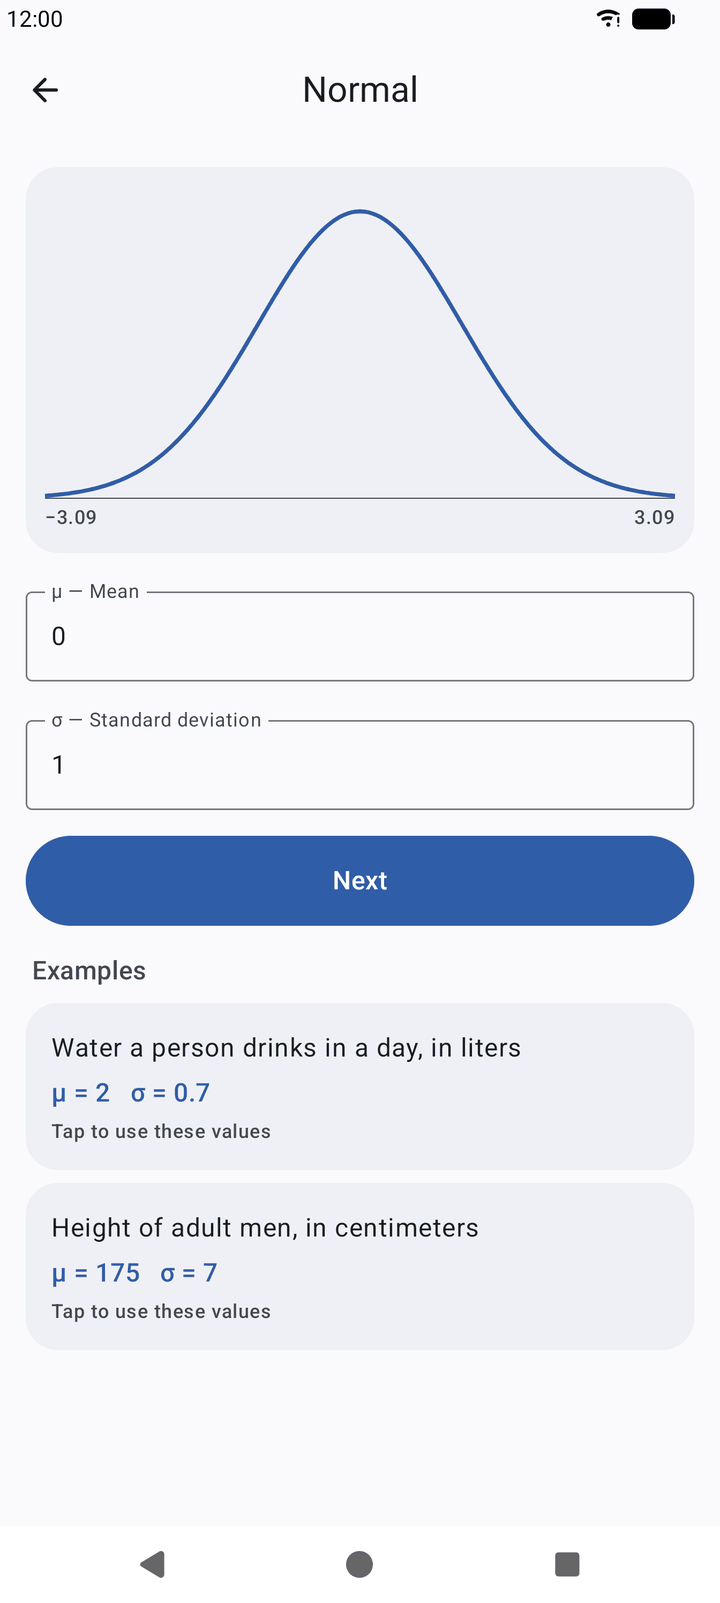
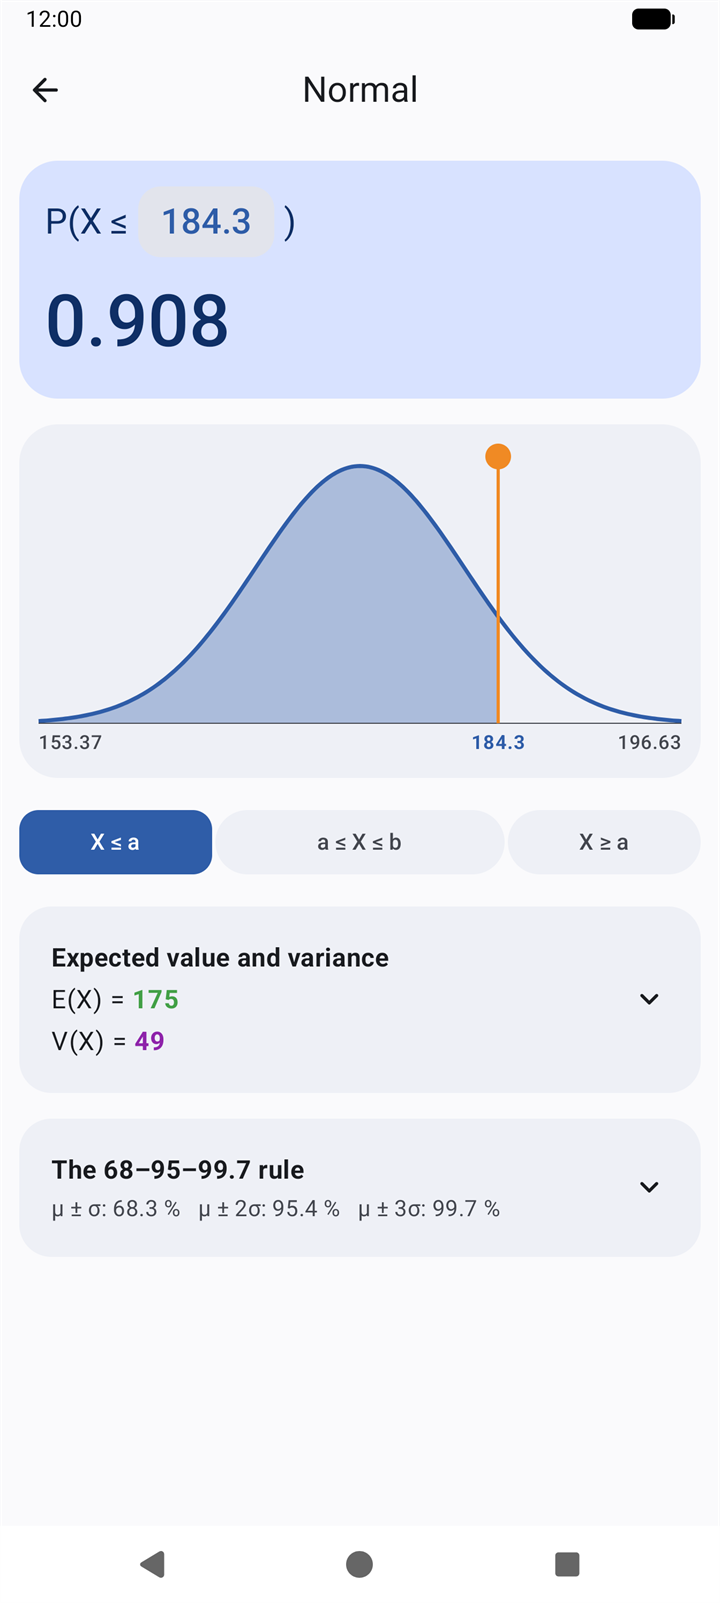
Show the new Probability look in the README
A new screenshot of the bell curve with its big answer and the line
dragged to 184.3, and a caption and description to match.

diff --git a/README.md b/README.md
@@ -105,8 +105,8 @@
     </td>
     <td align="center" valign="top" width="33%">
       <b>Probability</b><br />
-      <img src="docs/screenshots/probability.png" width="240" alt="The bell curve of the normal distribution with its mean and standard deviation" /><br />
-      <sub>Common distributions, with examples</sub>
+      <img src="docs/screenshots/probability.png" width="240" alt="P(X ≤ 184.3) is 0.908 for heights with a mean of 175 and a standard deviation of 7, with the line dragged on the bell curve" /><br />
+      <sub>Drag the graph to get the probability, with examples</sub>
     </td>
   </tr>
 </table>
